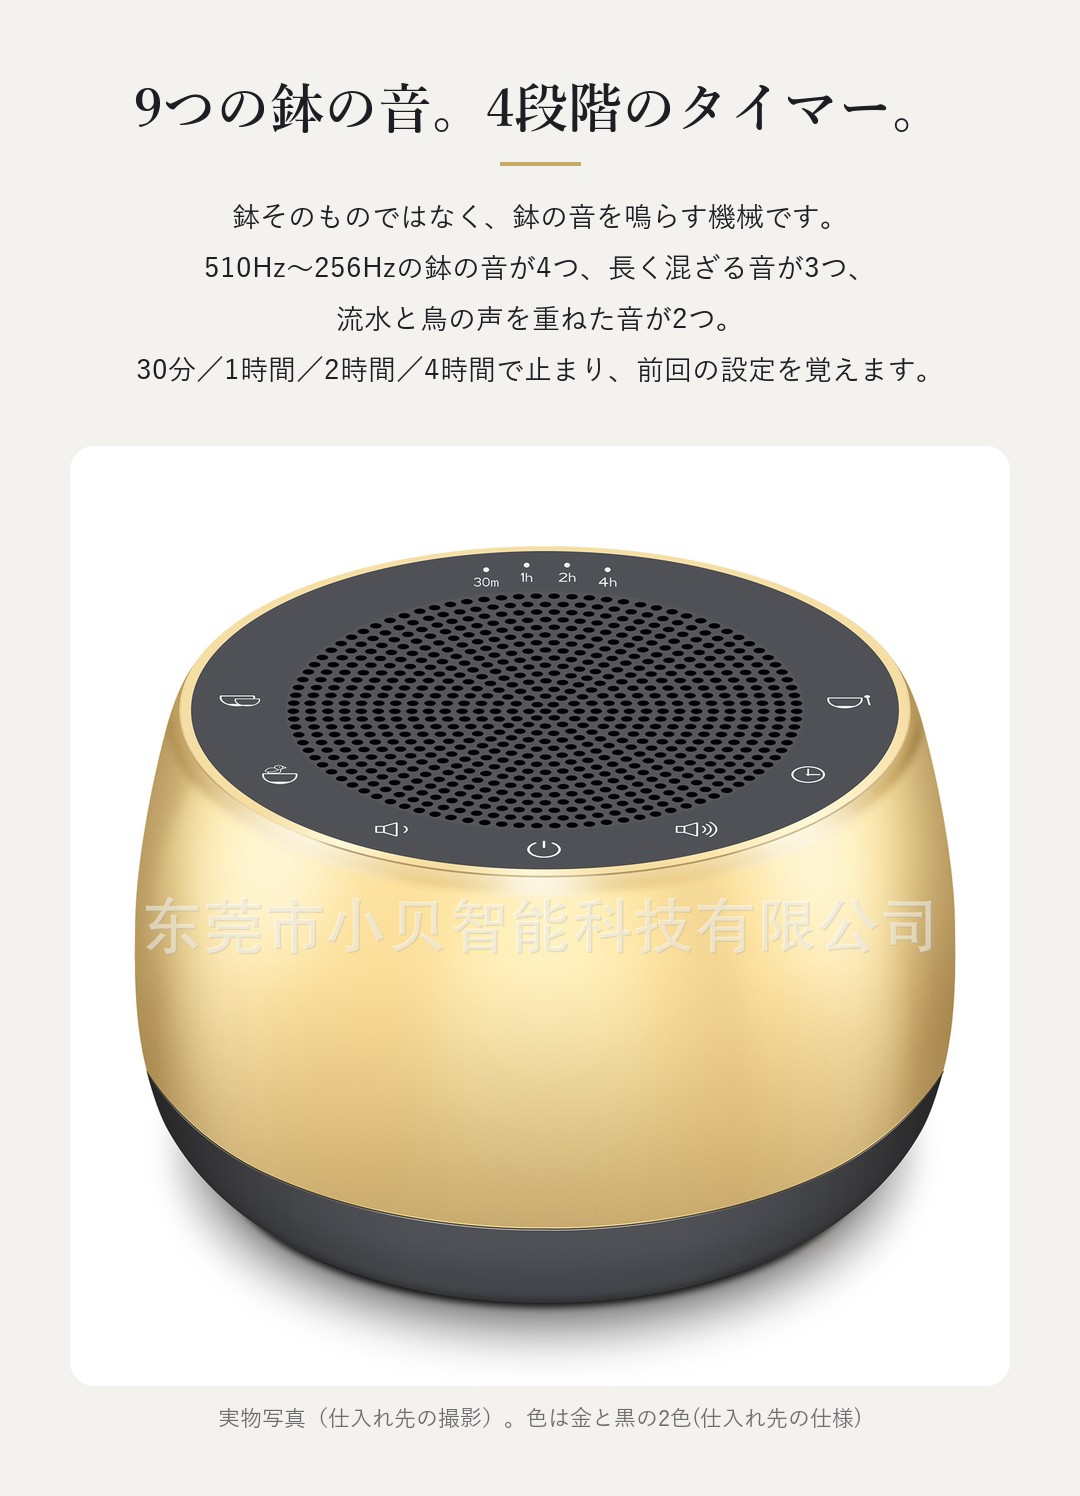
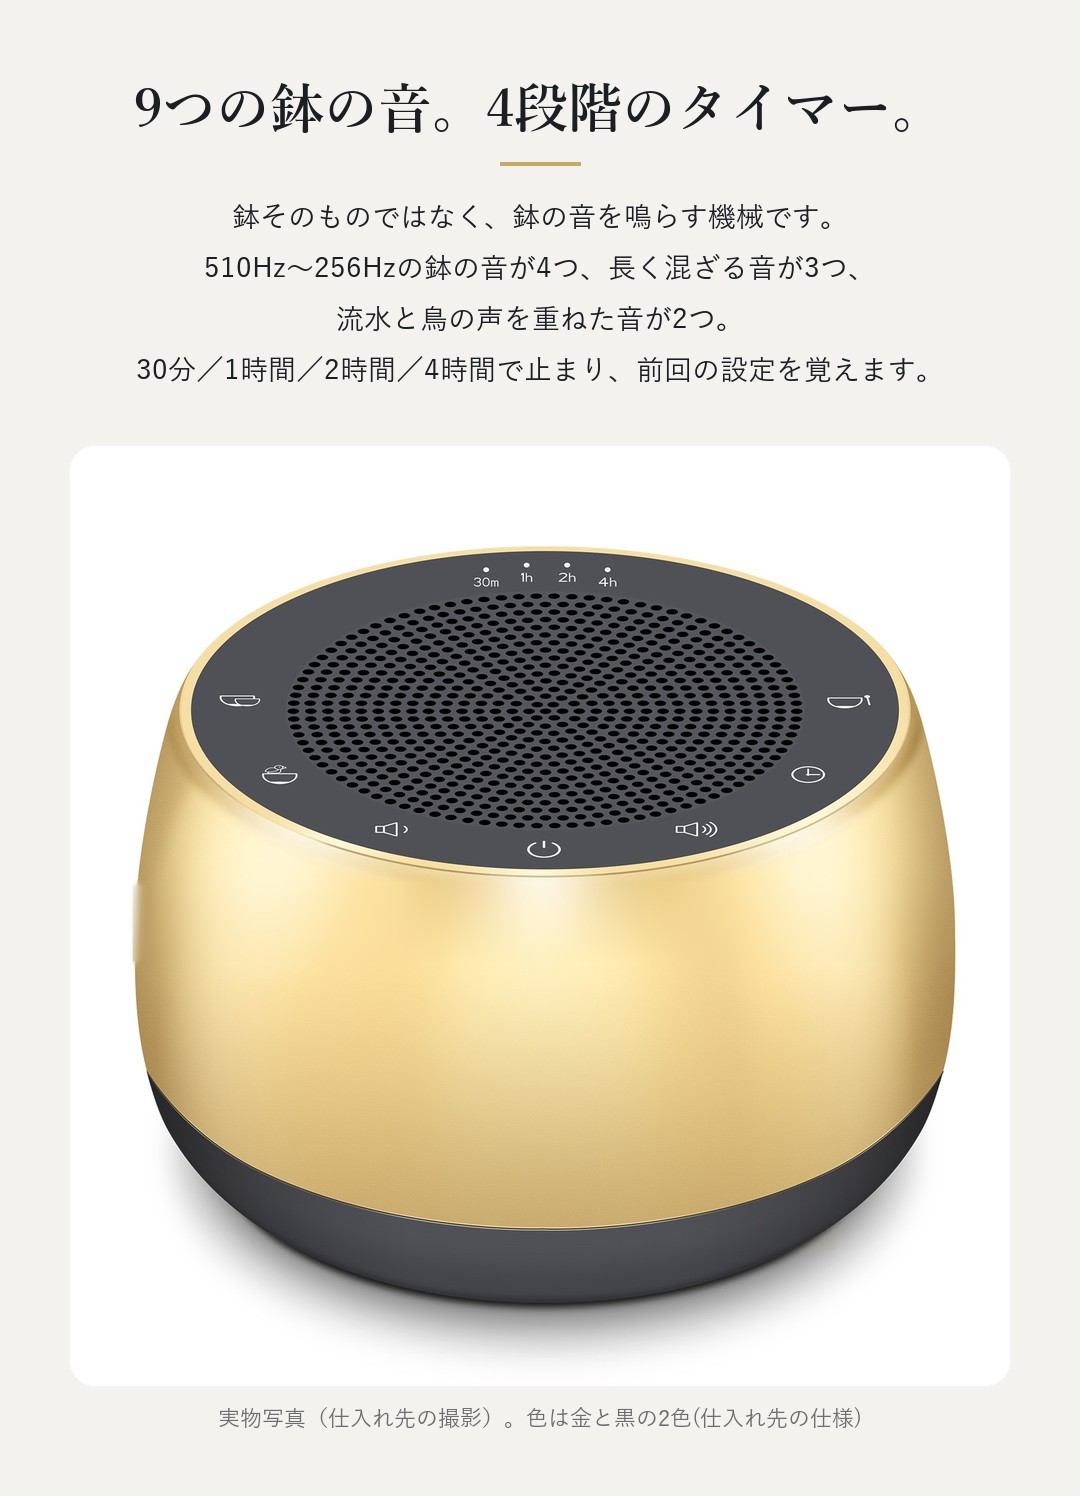
Remove supplier watermark/badge from product photos (stone-a, bowl-a, nook-a)

diff --git a/bowl-a/index.html b/bowl-a/index.html
@@ -33,16 +33,16 @@ details ul{padding-left:18px}
 </head>
 <body>
 <main>
-<img src="lp01.jpg?v=202611040003" alt="一番上">
-<img src="lp02.jpg?v=202611040003" alt="場面" loading="lazy">
-<img src="lp03.jpg?v=202611040003" alt="なぜ" loading="lazy">
-<img src="lp04.jpg?v=202611040003" alt="ディテール" loading="lazy">
-<img src="lp05.jpg?v=202611040003" alt="一台のこと" loading="lazy">
-<img src="lp06.jpg?v=202611040003" alt="贈る" loading="lazy">
-<img src="lp07.jpg?v=202611040003" alt="発売と価格" loading="lazy">
-<img src="lp08.jpg?v=202611040003" alt="なぜ先行登録" loading="lazy">
-<img src="lp09.jpg?v=202611040003" alt="安心して登録するために" loading="lazy">
-<a href="#" class="line-link"><img src="lp10.jpg?v=202611040003" alt="LINE登録" loading="lazy"></a>
+<img src="lp01.jpg?v=202611040817" alt="一番上">
+<img src="lp02.jpg?v=202611040817" alt="場面" loading="lazy">
+<img src="lp03.jpg?v=202611040817" alt="なぜ" loading="lazy">
+<img src="lp04.jpg?v=202611040817" alt="ディテール" loading="lazy">
+<img src="lp05.jpg?v=202611040817" alt="一台のこと" loading="lazy">
+<img src="lp06.jpg?v=202611040817" alt="贈る" loading="lazy">
+<img src="lp07.jpg?v=202611040817" alt="発売と価格" loading="lazy">
+<img src="lp08.jpg?v=202611040817" alt="なぜ先行登録" loading="lazy">
+<img src="lp09.jpg?v=202611040817" alt="安心して登録するために" loading="lazy">
+<a href="#" class="line-link"><img src="lp10.jpg?v=202611040817" alt="LINE登録" loading="lazy"></a>
 
 <section class="info">
   <h2>運営者情報</h2>

diff --git a/nook-a/index.html b/nook-a/index.html
@@ -33,16 +33,16 @@ details ul{padding-left:18px}
 </head>
 <body>
 <main>
-<img src="lp01.jpg?v=202611040009" alt="一番上">
-<img src="lp02.jpg?v=202611040009" alt="場面" loading="lazy">
-<img src="lp03.jpg?v=202611040009" alt="なぜ" loading="lazy">
-<img src="lp04.jpg?v=202611040009" alt="ディテール" loading="lazy">
-<img src="lp05.jpg?v=202611040009" alt="一台のこと" loading="lazy">
-<img src="lp06.jpg?v=202611040009" alt="贈る" loading="lazy">
-<img src="lp07.jpg?v=202611040009" alt="発売と価格" loading="lazy">
-<img src="lp08.jpg?v=202611040009" alt="なぜ先行登録" loading="lazy">
-<img src="lp09.jpg?v=202611040009" alt="安心して登録するために" loading="lazy">
-<a href="#" class="line-link"><img src="lp10.jpg?v=202611040009" alt="LINE登録" loading="lazy"></a>
+<img src="lp01.jpg?v=202611040817" alt="一番上">
+<img src="lp02.jpg?v=202611040817" alt="場面" loading="lazy">
+<img src="lp03.jpg?v=202611040817" alt="なぜ" loading="lazy">
+<img src="lp04.jpg?v=202611040817" alt="ディテール" loading="lazy">
+<img src="lp05.jpg?v=202611040817" alt="一台のこと" loading="lazy">
+<img src="lp06.jpg?v=202611040817" alt="贈る" loading="lazy">
+<img src="lp07.jpg?v=202611040817" alt="発売と価格" loading="lazy">
+<img src="lp08.jpg?v=202611040817" alt="なぜ先行登録" loading="lazy">
+<img src="lp09.jpg?v=202611040817" alt="安心して登録するために" loading="lazy">
+<a href="#" class="line-link"><img src="lp10.jpg?v=202611040817" alt="LINE登録" loading="lazy"></a>
 
 <section class="info">
   <h2>運営者情報</h2>

diff --git a/stone-a/index.html b/stone-a/index.html
@@ -33,16 +33,16 @@ details ul{padding-left:18px}
 </head>
 <body>
 <main>
-<img src="lp01.jpg?v=202611040000" alt="一番上">
-<img src="lp02.jpg?v=202611040000" alt="場面" loading="lazy">
-<img src="lp03.jpg?v=202611040000" alt="なぜ" loading="lazy">
-<img src="lp04.jpg?v=202611040000" alt="ディテール" loading="lazy">
-<img src="lp05.jpg?v=202611040000" alt="一台のこと" loading="lazy">
-<img src="lp06.jpg?v=202611040000" alt="贈る" loading="lazy">
-<img src="lp07.jpg?v=202611040000" alt="発売と価格" loading="lazy">
-<img src="lp08.jpg?v=202611040000" alt="なぜ先行登録" loading="lazy">
-<img src="lp09.jpg?v=202611040000" alt="安心して登録するために" loading="lazy">
-<a href="#" class="line-link"><img src="lp10.jpg?v=202611040000" alt="LINE登録" loading="lazy"></a>
+<img src="lp01.jpg?v=202611040817" alt="一番上">
+<img src="lp02.jpg?v=202611040817" alt="場面" loading="lazy">
+<img src="lp03.jpg?v=202611040817" alt="なぜ" loading="lazy">
+<img src="lp04.jpg?v=202611040817" alt="ディテール" loading="lazy">
+<img src="lp05.jpg?v=202611040817" alt="一台のこと" loading="lazy">
+<img src="lp06.jpg?v=202611040817" alt="贈る" loading="lazy">
+<img src="lp07.jpg?v=202611040817" alt="発売と価格" loading="lazy">
+<img src="lp08.jpg?v=202611040817" alt="なぜ先行登録" loading="lazy">
+<img src="lp09.jpg?v=202611040817" alt="安心して登録するために" loading="lazy">
+<a href="#" class="line-link"><img src="lp10.jpg?v=202611040817" alt="LINE登録" loading="lazy"></a>
 
 <section class="info">
   <h2>運営者情報</h2>
